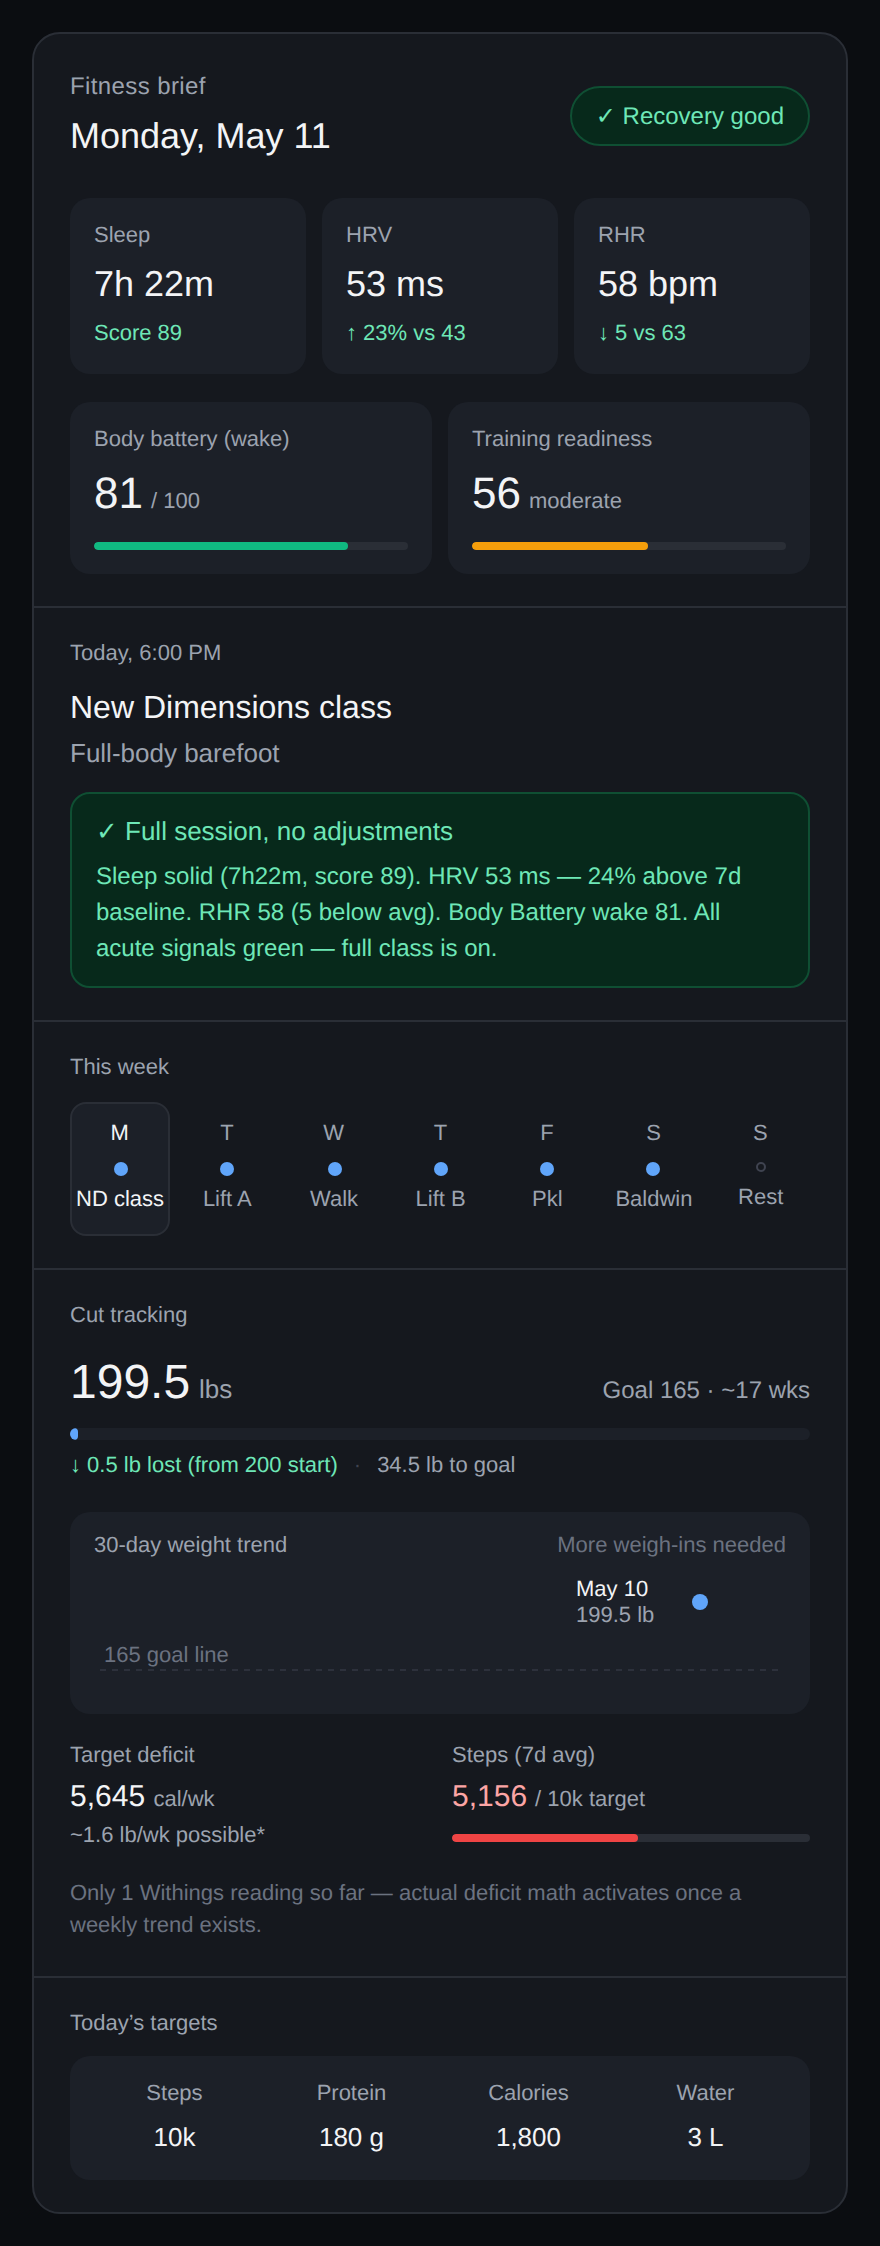
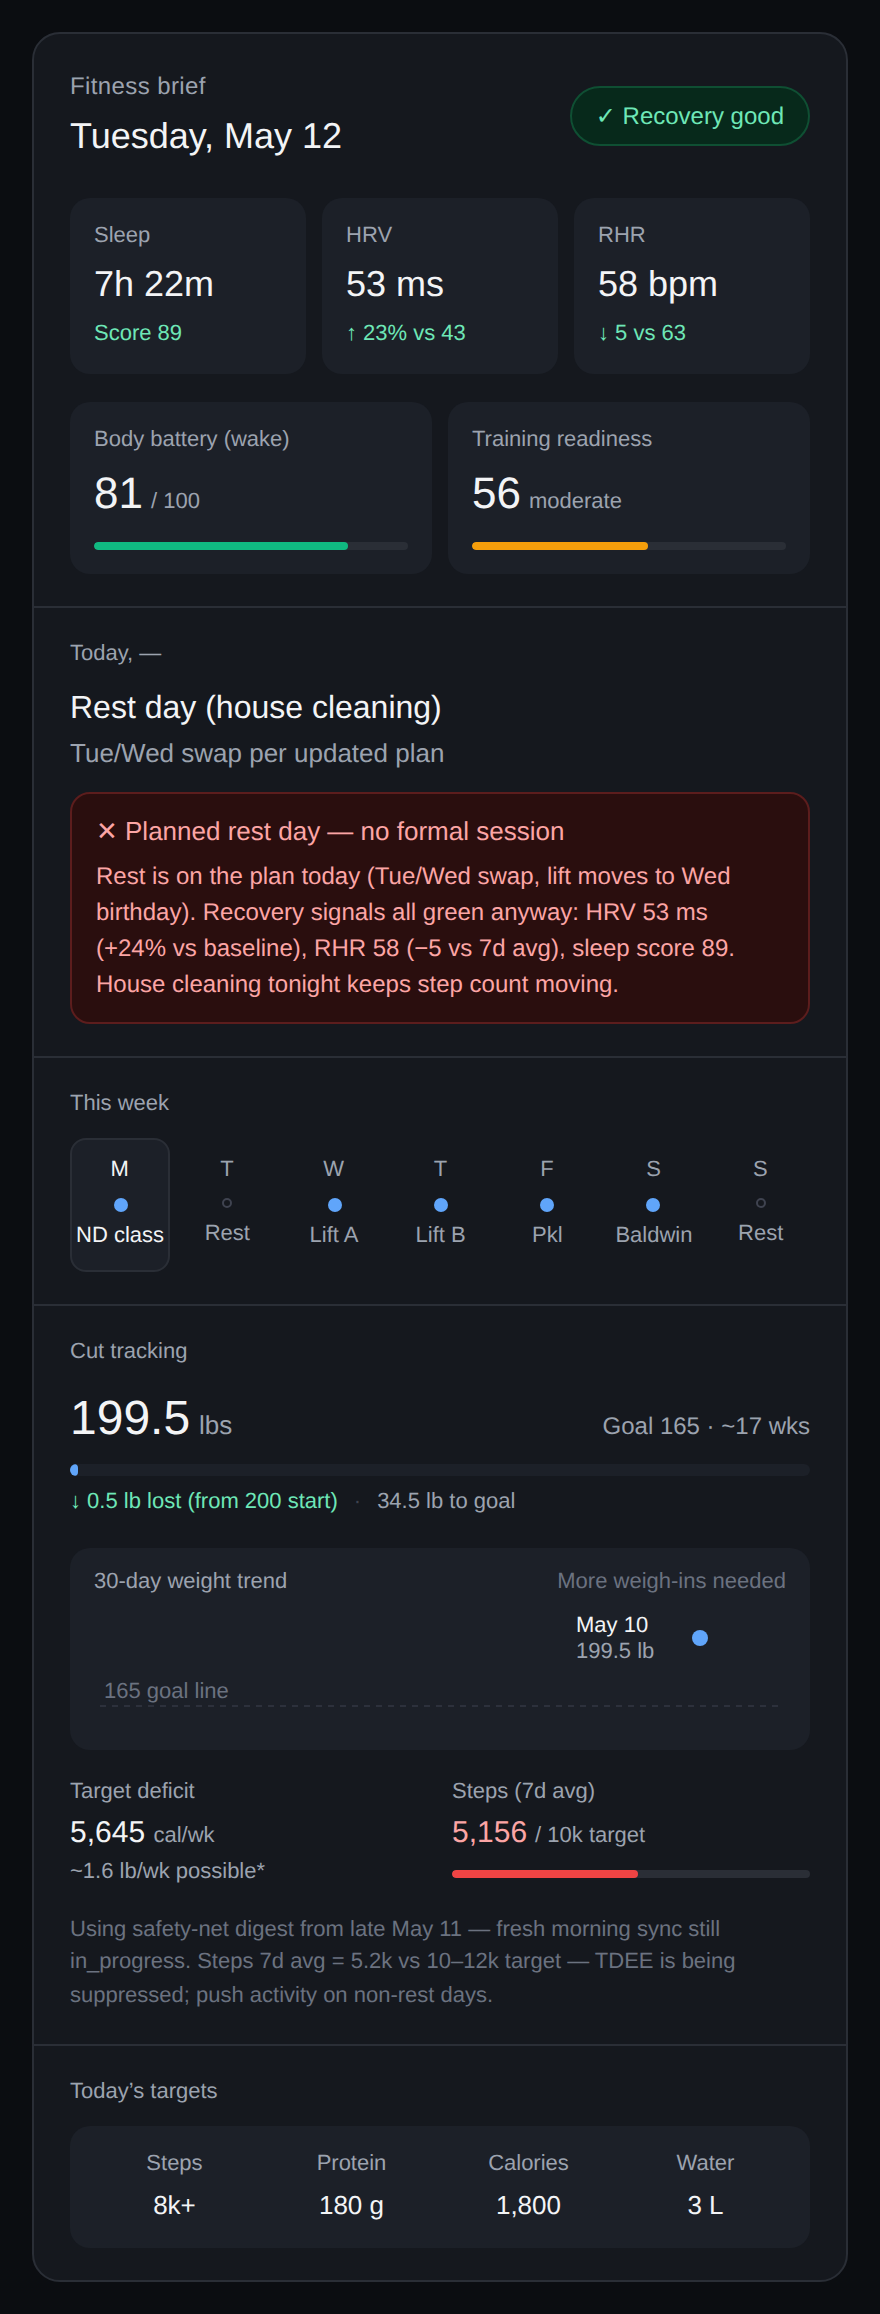
Deploy fitness brief: 2026-05-12

diff --git a/fitness/2026-05-11-brief.html b/fitness/2026-05-11-brief.html
@@ -2,7 +2,7 @@
 <html lang="en">
 <head>
 <meta charset="utf-8">
-<title>Fitness Brief — Monday, May 11</title>
+<title>Fitness Brief — Tuesday, May 12</title>
 <style>
   /* Reset + base */
   *, *::before, *::after { box-sizing: border-box; margin: 0; padding: 0; }
@@ -270,7 +270,7 @@
   <div class="header">
     <div>
       <div class="header-label">Fitness brief</div>
-      <div class="header-date">Monday, May 11</div>
+      <div class="header-date">Tuesday, May 12</div>
     </div>
     <div class="pill pill-good">
       ✓
@@ -328,15 +328,15 @@
 
   
   <div class="section">
-    <div class="section-label">Today, 6:00 PM</div>
-    <div class="session-name">New Dimensions class</div>
-    <div class="session-sub">Full-body barefoot</div>
-    <div class="adjustment adjustment-good">
+    <div class="section-label">Today, —</div>
+    <div class="session-name">Rest day (house cleaning)</div>
+    <div class="session-sub">Tue/Wed swap per updated plan</div>
+    <div class="adjustment adjustment-low">
       <div class="adjustment-label">
-        ✓
-        Full session, no adjustments
+        ✕
+        Planned rest day — no formal session
       </div>
-      <div class="adjustment-why">Sleep solid (7h22m, score 89). HRV 53 ms — 24% above 7d baseline. RHR 58 (5 below avg). Body Battery wake 81. All acute signals green — full class is on.</div>
+      <div class="adjustment-why">Rest is on the plan today (Tue/Wed swap, lift moves to Wed birthday). Recovery signals all green anyway: HRV 53 ms (+24% vs baseline), RHR 58 (−5 vs 7d avg), sleep score 89. House cleaning tonight keeps step count moving.</div>
     </div>
   </div>
 
@@ -354,14 +354,14 @@
       
       <div class="day-cell">
         <div class="day-letter">T</div>
-        <div class="day-dot"></div>
-        <div class="day-text">Lift A</div>
+        <div class="day-dot is-rest"></div>
+        <div class="day-text">Rest</div>
       </div>
       
       <div class="day-cell">
         <div class="day-letter">W</div>
         <div class="day-dot"></div>
-        <div class="day-text">Walk</div>
+        <div class="day-text">Lift A</div>
       </div>
       
       <div class="day-cell">
@@ -452,14 +452,14 @@
       </div>
     </div>
 
-    <div class="footnote">Only 1 Withings reading so far — actual deficit math activates once a weekly trend exists.</div>
+    <div class="footnote">Using safety-net digest from late May 11 — fresh morning sync still in_progress. Steps 7d avg = 5.2k vs 10–12k target — TDEE is being suppressed; push activity on non-rest days.</div>
   </div>
 
   
   <div class="section">
     <div class="section-label">Today&rsquo;s targets</div>
     <div class="targets-grid">
-      <div class="target"><div class="target-label">Steps</div><div class="target-value">10k</div></div>
+      <div class="target"><div class="target-label">Steps</div><div class="target-value">8k+</div></div>
       <div class="target"><div class="target-label">Protein</div><div class="target-value">180 g</div></div>
       <div class="target"><div class="target-label">Calories</div><div class="target-value">1,800</div></div>
       <div class="target"><div class="target-label">Water</div><div class="target-value">3 L</div></div>

diff --git a/fitness/index.html b/fitness/index.html
@@ -2,7 +2,7 @@
 <html lang="en">
 <head>
 <meta charset="utf-8">
-<title>Fitness Brief — Monday, May 11</title>
+<title>Fitness Brief — Tuesday, May 12</title>
 <style>
   /* Reset + base */
   *, *::before, *::after { box-sizing: border-box; margin: 0; padding: 0; }
@@ -270,7 +270,7 @@
   <div class="header">
     <div>
       <div class="header-label">Fitness brief</div>
-      <div class="header-date">Monday, May 11</div>
+      <div class="header-date">Tuesday, May 12</div>
     </div>
     <div class="pill pill-good">
       ✓
@@ -328,15 +328,15 @@
 
   
   <div class="section">
-    <div class="section-label">Today, 6:00 PM</div>
-    <div class="session-name">New Dimensions class</div>
-    <div class="session-sub">Full-body barefoot</div>
-    <div class="adjustment adjustment-good">
+    <div class="section-label">Today, —</div>
+    <div class="session-name">Rest day (house cleaning)</div>
+    <div class="session-sub">Tue/Wed swap per updated plan</div>
+    <div class="adjustment adjustment-low">
       <div class="adjustment-label">
-        ✓
-        Full session, no adjustments
+        ✕
+        Planned rest day — no formal session
       </div>
-      <div class="adjustment-why">Sleep solid (7h22m, score 89). HRV 53 ms — 24% above 7d baseline. RHR 58 (5 below avg). Body Battery wake 81. All acute signals green — full class is on.</div>
+      <div class="adjustment-why">Rest is on the plan today (Tue/Wed swap, lift moves to Wed birthday). Recovery signals all green anyway: HRV 53 ms (+24% vs baseline), RHR 58 (−5 vs 7d avg), sleep score 89. House cleaning tonight keeps step count moving.</div>
     </div>
   </div>
 
@@ -354,14 +354,14 @@
       
       <div class="day-cell">
         <div class="day-letter">T</div>
-        <div class="day-dot"></div>
-        <div class="day-text">Lift A</div>
+        <div class="day-dot is-rest"></div>
+        <div class="day-text">Rest</div>
       </div>
       
       <div class="day-cell">
         <div class="day-letter">W</div>
         <div class="day-dot"></div>
-        <div class="day-text">Walk</div>
+        <div class="day-text">Lift A</div>
       </div>
       
       <div class="day-cell">
@@ -452,14 +452,14 @@
       </div>
     </div>
 
-    <div class="footnote">Only 1 Withings reading so far — actual deficit math activates once a weekly trend exists.</div>
+    <div class="footnote">Using safety-net digest from late May 11 — fresh morning sync still in_progress. Steps 7d avg = 5.2k vs 10–12k target — TDEE is being suppressed; push activity on non-rest days.</div>
   </div>
 
   
   <div class="section">
     <div class="section-label">Today&rsquo;s targets</div>
     <div class="targets-grid">
-      <div class="target"><div class="target-label">Steps</div><div class="target-value">10k</div></div>
+      <div class="target"><div class="target-label">Steps</div><div class="target-value">8k+</div></div>
       <div class="target"><div class="target-label">Protein</div><div class="target-value">180 g</div></div>
       <div class="target"><div class="target-label">Calories</div><div class="target-value">1,800</div></div>
       <div class="target"><div class="target-label">Water</div><div class="target-value">3 L</div></div>

diff --git a/fitness/latest-brief.html b/fitness/latest-brief.html
@@ -2,7 +2,7 @@
 <html lang="en">
 <head>
 <meta charset="utf-8">
-<title>Fitness Brief — Monday, May 11</title>
+<title>Fitness Brief — Tuesday, May 12</title>
 <style>
   /* Reset + base */
   *, *::before, *::after { box-sizing: border-box; margin: 0; padding: 0; }
@@ -270,7 +270,7 @@
   <div class="header">
     <div>
       <div class="header-label">Fitness brief</div>
-      <div class="header-date">Monday, May 11</div>
+      <div class="header-date">Tuesday, May 12</div>
     </div>
     <div class="pill pill-good">
       ✓
@@ -328,15 +328,15 @@
 
   
   <div class="section">
-    <div class="section-label">Today, 6:00 PM</div>
-    <div class="session-name">New Dimensions class</div>
-    <div class="session-sub">Full-body barefoot</div>
-    <div class="adjustment adjustment-good">
+    <div class="section-label">Today, —</div>
+    <div class="session-name">Rest day (house cleaning)</div>
+    <div class="session-sub">Tue/Wed swap per updated plan</div>
+    <div class="adjustment adjustment-low">
       <div class="adjustment-label">
-        ✓
-        Full session, no adjustments
+        ✕
+        Planned rest day — no formal session
       </div>
-      <div class="adjustment-why">Sleep solid (7h22m, score 89). HRV 53 ms — 24% above 7d baseline. RHR 58 (5 below avg). Body Battery wake 81. All acute signals green — full class is on.</div>
+      <div class="adjustment-why">Rest is on the plan today (Tue/Wed swap, lift moves to Wed birthday). Recovery signals all green anyway: HRV 53 ms (+24% vs baseline), RHR 58 (−5 vs 7d avg), sleep score 89. House cleaning tonight keeps step count moving.</div>
     </div>
   </div>
 
@@ -354,14 +354,14 @@
       
       <div class="day-cell">
         <div class="day-letter">T</div>
-        <div class="day-dot"></div>
-        <div class="day-text">Lift A</div>
+        <div class="day-dot is-rest"></div>
+        <div class="day-text">Rest</div>
       </div>
       
       <div class="day-cell">
         <div class="day-letter">W</div>
         <div class="day-dot"></div>
-        <div class="day-text">Walk</div>
+        <div class="day-text">Lift A</div>
       </div>
       
       <div class="day-cell">
@@ -452,14 +452,14 @@
       </div>
     </div>
 
-    <div class="footnote">Only 1 Withings reading so far — actual deficit math activates once a weekly trend exists.</div>
+    <div class="footnote">Using safety-net digest from late May 11 — fresh morning sync still in_progress. Steps 7d avg = 5.2k vs 10–12k target — TDEE is being suppressed; push activity on non-rest days.</div>
   </div>
 
   
   <div class="section">
     <div class="section-label">Today&rsquo;s targets</div>
     <div class="targets-grid">
-      <div class="target"><div class="target-label">Steps</div><div class="target-value">10k</div></div>
+      <div class="target"><div class="target-label">Steps</div><div class="target-value">8k+</div></div>
       <div class="target"><div class="target-label">Protein</div><div class="target-value">180 g</div></div>
       <div class="target"><div class="target-label">Calories</div><div class="target-value">1,800</div></div>
       <div class="target"><div class="target-label">Water</div><div class="target-value">3 L</div></div>
